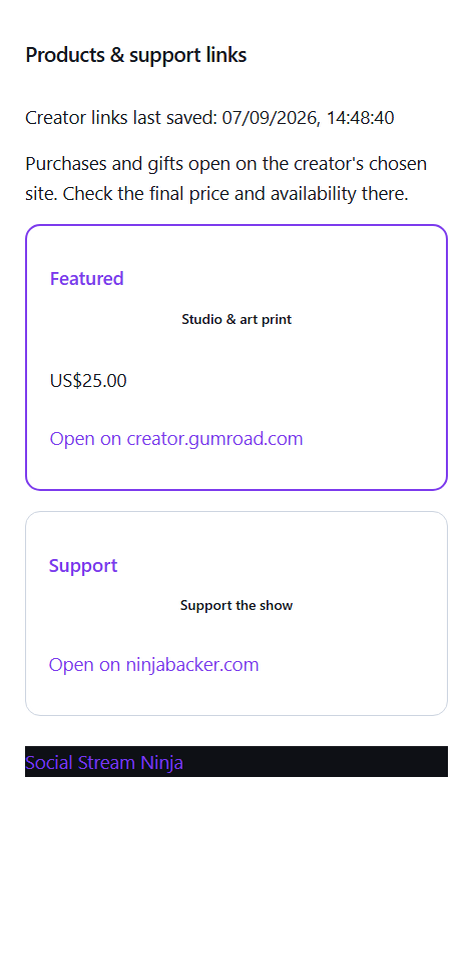
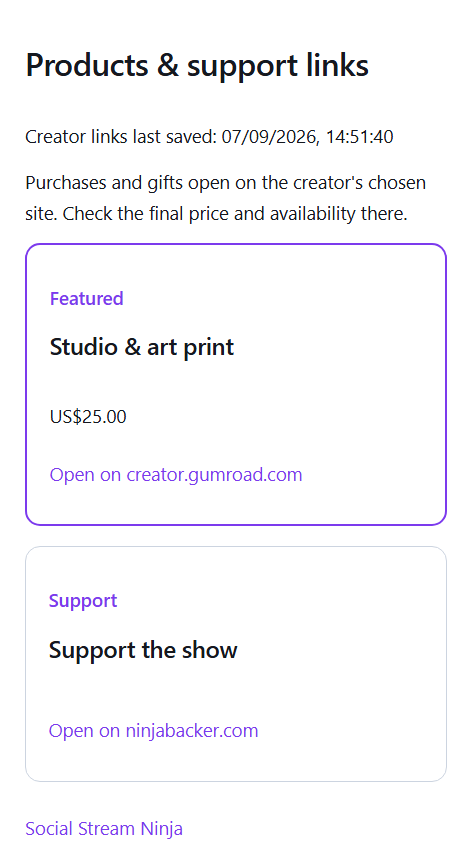
Include remaining current updates

diff --git a/shared/monetization/background.js b/shared/monetization/background.js
@@ -358,6 +358,7 @@
             await store(); // Save the write capability before the first request.
         }
         var controller = new AbortController(), timer = setTimeout(function () { controller.abort(); }, 12000);
+        p.removePending = !!remove; await store();
         try {
             var payload = JSON.stringify(commerceState());
             var headers = { Authorization: 'Bearer ' + p.key };
@@ -366,14 +367,14 @@
             var result; try { result = await response.json(); } catch (_) { throw new Error('Public pages are unavailable. Try again later.'); }
             if (!response.ok) throw new Error(result.error || 'Could not update the public page.');
             if (!remove && !/^[a-f0-9]{64}$/.test(result.id || '')) throw new Error('Invalid public page response.');
-            p.published = !remove; if (!remove) p.id = result.id;
+            p.published = !remove; p.removePending = false; if (!remove) p.id = result.id;
             await store(); lastShopPayload = remove ? '' : JSON.stringify(commerceState()); shopStatus = remove ? 'Public page removed.' : 'Public page updated.';
         } catch (error) { shopStatus = 'Public page update failed. The last published version may still be visible.'; throw error; }
         finally { clearTimeout(timer); }
     }
     async function refreshShop() {
         if (privateState.publicShop && privateState.publicShop.published) {
-            try { await syncShop(false); } catch (_) {} // Local controls still work during an API outage.
+            try { await syncShop(!!privateState.publicShop.removePending); } catch (_) {} // Local controls still work during an API outage.
         }
     }
     async function importPublicProduct(request) {
@@ -554,7 +555,7 @@
 	chrome.storage.local.get(['monetizationPrivate'], function (saved) {
 		var p = saved.monetizationPrivate;
 		if (p && typeof p === 'object') {
-            if (p.publicShop && /^[a-f0-9]{64}$/.test(p.publicShop.key || '')) privateState.publicShop = { key: p.publicShop.key, id: /^[a-f0-9]{64}$/.test(p.publicShop.id || '') ? p.publicShop.id : '', published: p.publicShop.published === true };
+            if (p.publicShop && /^[a-f0-9]{64}$/.test(p.publicShop.key || '')) privateState.publicShop = { key: p.publicShop.key, id: /^[a-f0-9]{64}$/.test(p.publicShop.id || '') ? p.publicShop.id : '', published: p.publicShop.published === true, removePending: p.publicShop.removePending === true };
 			function ebayProfile(value) {
 				if (!value || !(value.key === '' || /^[a-f0-9]{64}$/.test(value.key || '')) || !Array.isArray(value.items) || !Array.isArray(value.seen)) return null;
 				return { key: value.key, environment: value.environment === 'sandbox' ? 'sandbox' : 'production', items: value.items.slice(0, 20), seen: value.seen.slice(-10000), cursor: Number(value.cursor) || 0 };
@@ -599,7 +600,7 @@
 		ebay.poll();
 		ninjaReceiver.poll();
         shopifyReceiver.poll();
-        if (privateState.publicShop && privateState.publicShop.published && Date.now() >= nextShopSync && JSON.stringify(commerceState()) !== lastShopPayload) {
+        if (privateState.publicShop && privateState.publicShop.published && Date.now() >= nextShopSync && (privateState.publicShop.removePending || JSON.stringify(commerceState()) !== lastShopPayload)) {
             nextShopSync = Date.now() + 60000;
             queue = queue.then(refreshShop).catch(function () {});
         }

diff --git a/shared/monetization/shop.css b/shared/monetization/shop.css
@@ -1,11 +1,11 @@
 .viewer-shop { max-width: 800px; margin: 32px auto; padding: 0 20px; }
-.viewer-shop h1 { font-size: 1.8rem; }
+.viewer-shop h1 { font-size: 2.8rem; }
 .viewer-shop p { margin: 12px 0; }
 .viewer-shop footer { margin: 24px 0; }
 #shop-items { display: grid; grid-template-columns: repeat(auto-fit, minmax(240px, 1fr)); gap: 16px; }
 .shop-item { border: 1px solid var(--border-strong); border-radius: var(--radius-md); padding: 18px; background: var(--card-background); min-width: 0; }
 .shop-item.featured { border: 2px solid var(--primary-color); }
-.shop-item h2 { font-size: 1.25rem; overflow-wrap: anywhere; }
+.shop-item h2 { font-size: 2.1rem; overflow-wrap: anywhere; }
 .shop-item img { width: 100%; height: 180px; object-fit: contain; margin-bottom: 12px; }
 .shop-item a { display: block; padding: 10px 0; overflow-wrap: anywhere; }
 .shop-item a:focus-visible { outline: 3px solid var(--primary-color); outline-offset: 3px; }
@@ -15,3 +15,5 @@
 .viewer-shop h1, .viewer-shop h2 { font-family: var(--font-primary); text-align: left; line-height: 1.4; }
 .viewer-shop h2 { margin: 12px 0; }
 .viewer-shop footer { background: transparent; color: var(--text-primary); padding: 0; text-align: left; }
+
+.viewer-shop p { font-family: inherit; font-size: 1.6rem; }
